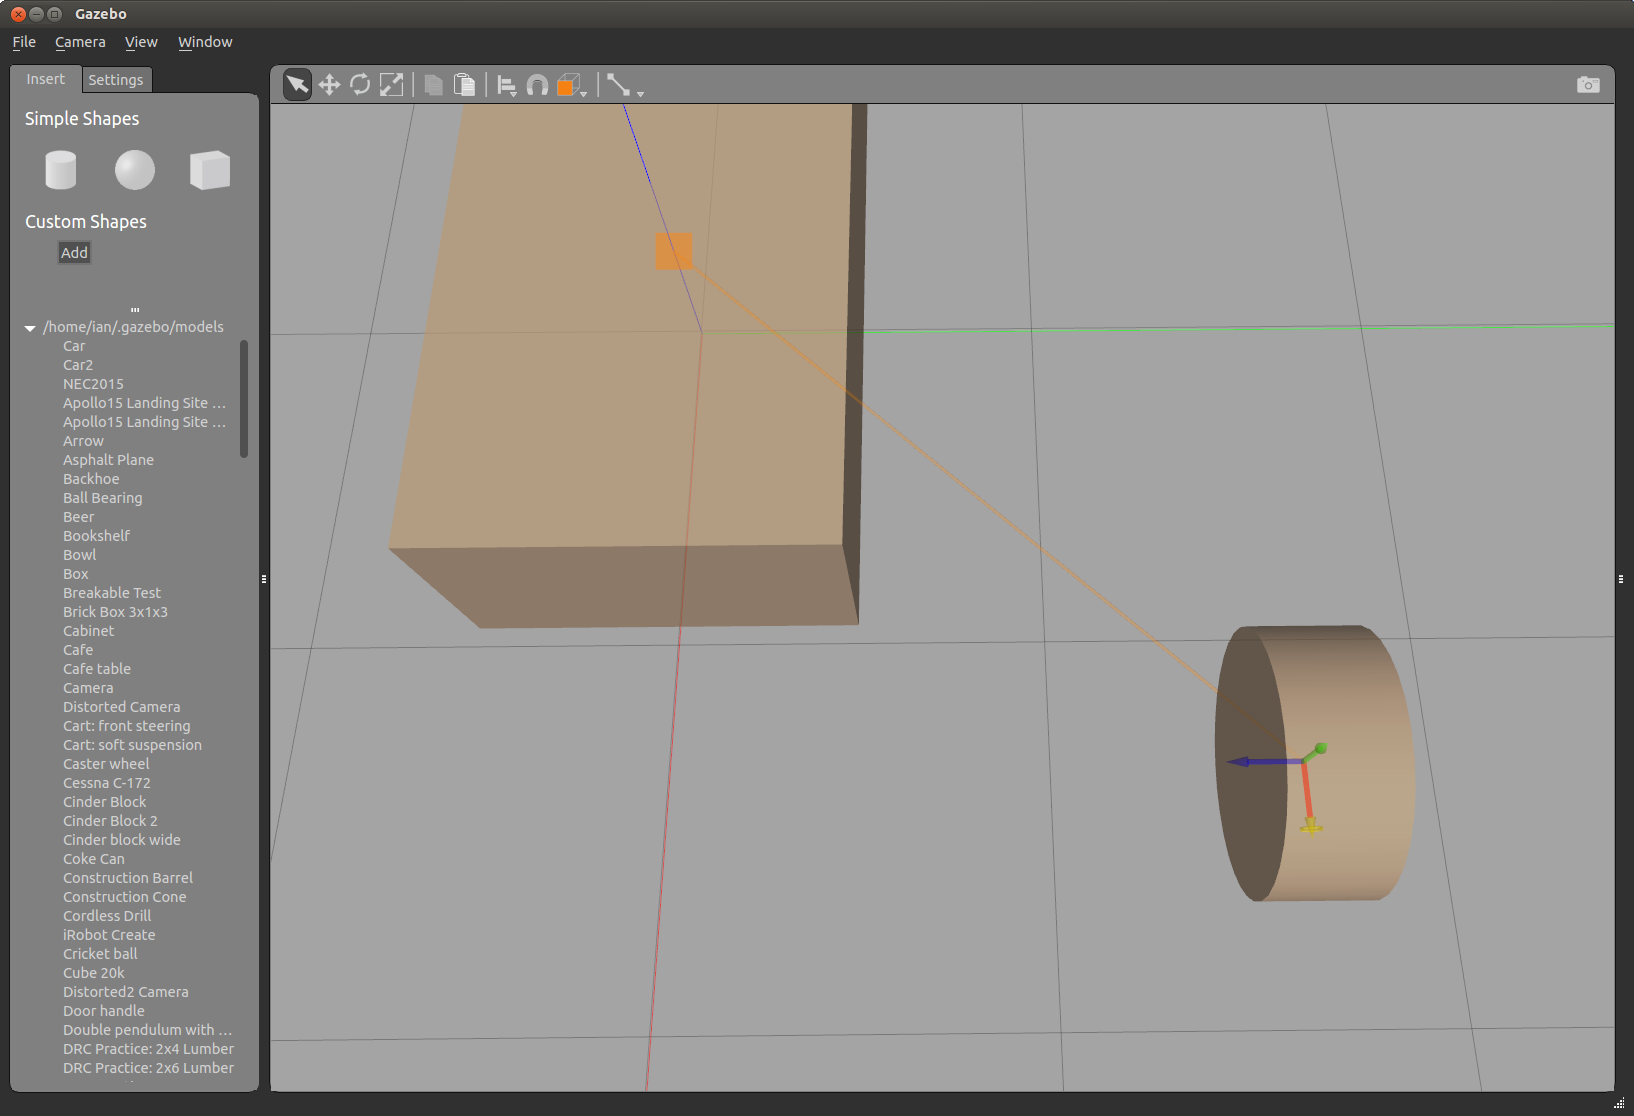
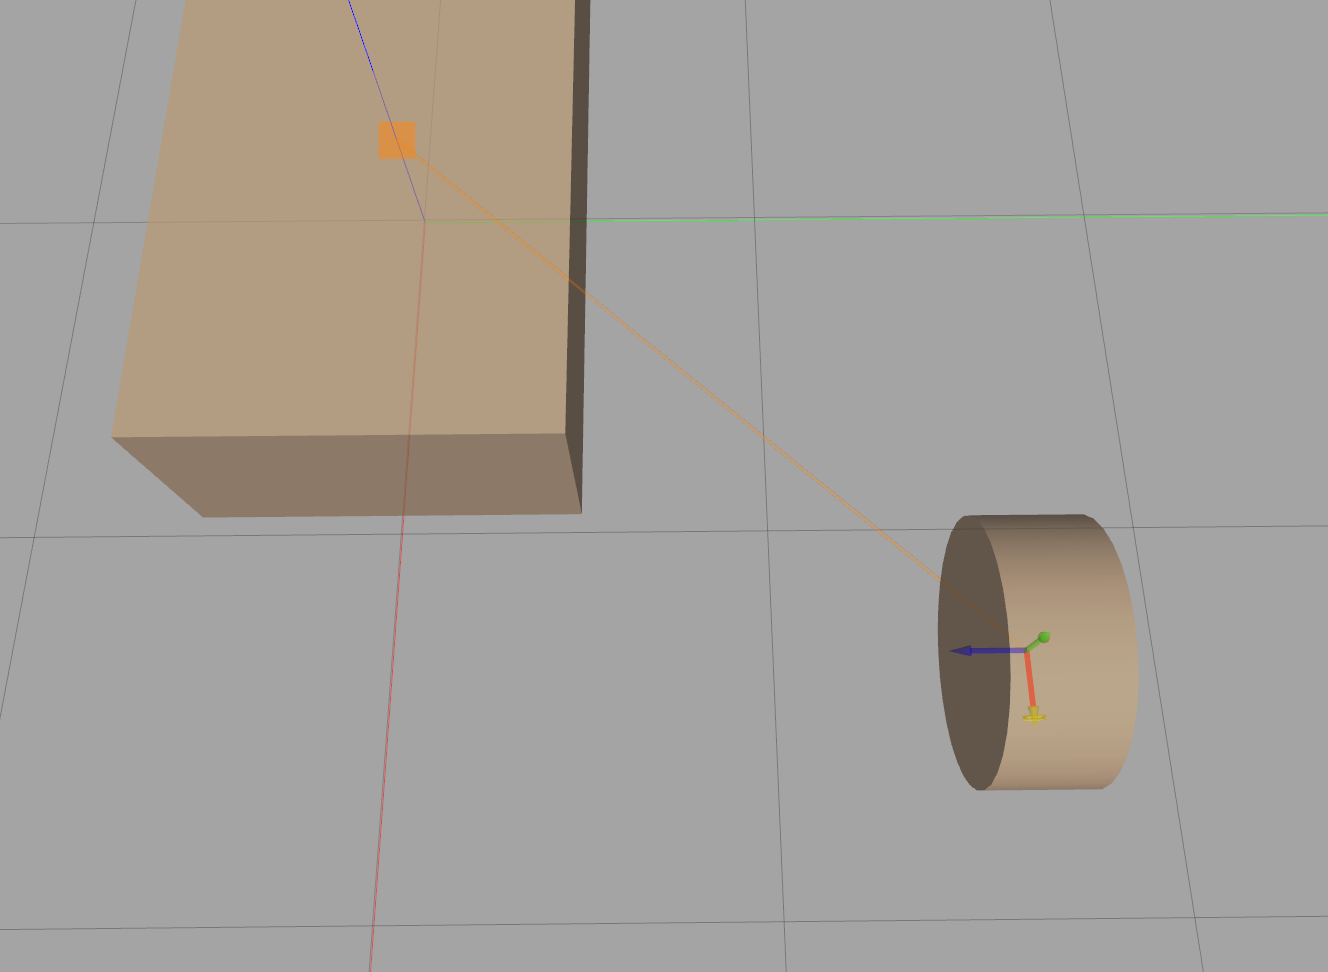
update images

diff --git a/ftu/tutorial4.md b/ftu/tutorial4.md
@@ -65,7 +65,7 @@ This section provides step-by-step instructions on creating a simple vehicle mod
 1. First,  we'll create the vehicle chassis. In the Insert tab in the left panel, click once on the Box icon, move the cursor to anywhere in the Scene,
    and click again to release the box.
 
-    [[file:files/ftu4/ftu4-editor_box.png|600px]]
+    [[file:files/ftu4/ftu4-editor_box.png|200px]]
 
 1. Next, resize the box so that it looks more like the shape of a car chassis. We can do this using the Scale tool located on the top Toolbar.
    Select the box in the Scene, and a RGB-colored marker should appear over the box. The red color arrow represents the X axis, green is Y, and blue is Z.
@@ -101,7 +101,7 @@ This section provides step-by-step instructions on creating a simple vehicle mod
 
 1. Now that we have created our first wheel, we'll use it as a template and make three more. Select the wheel and click on the Copy icon in the top Toolbar.
 
-    [[file:files/ftu4/ftu4-wheel_copy.png|100px]]
+    [[file:files/ftu4/ftu4-wheel_copy.png|200px]]
 
 1. Click on the Paste icon and move the mouse back to the Scene to insert the copy. Repeat the process until there are four wheels in the Scene.
 
